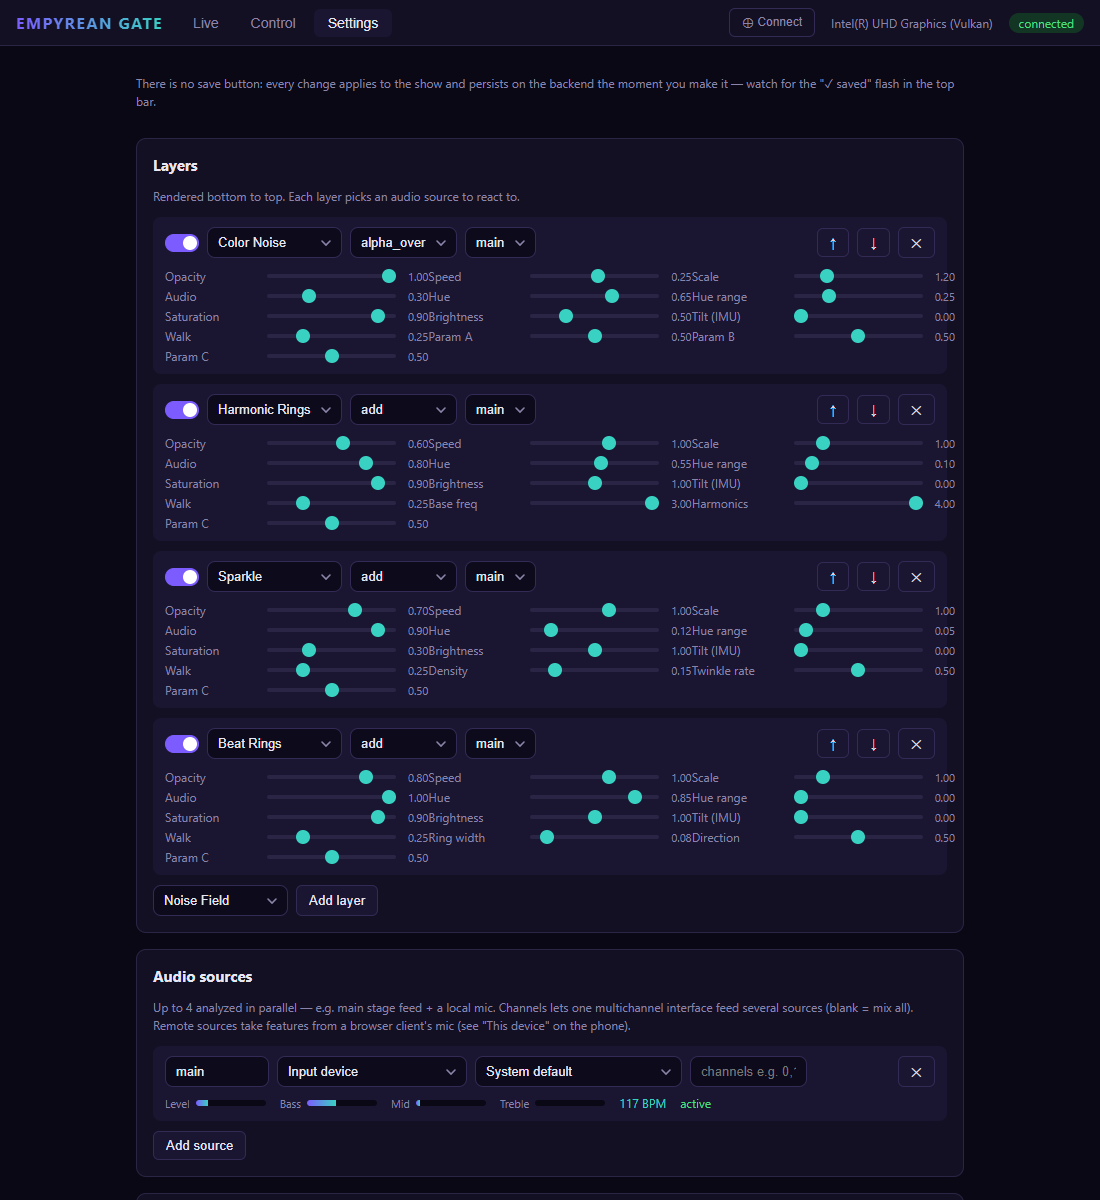
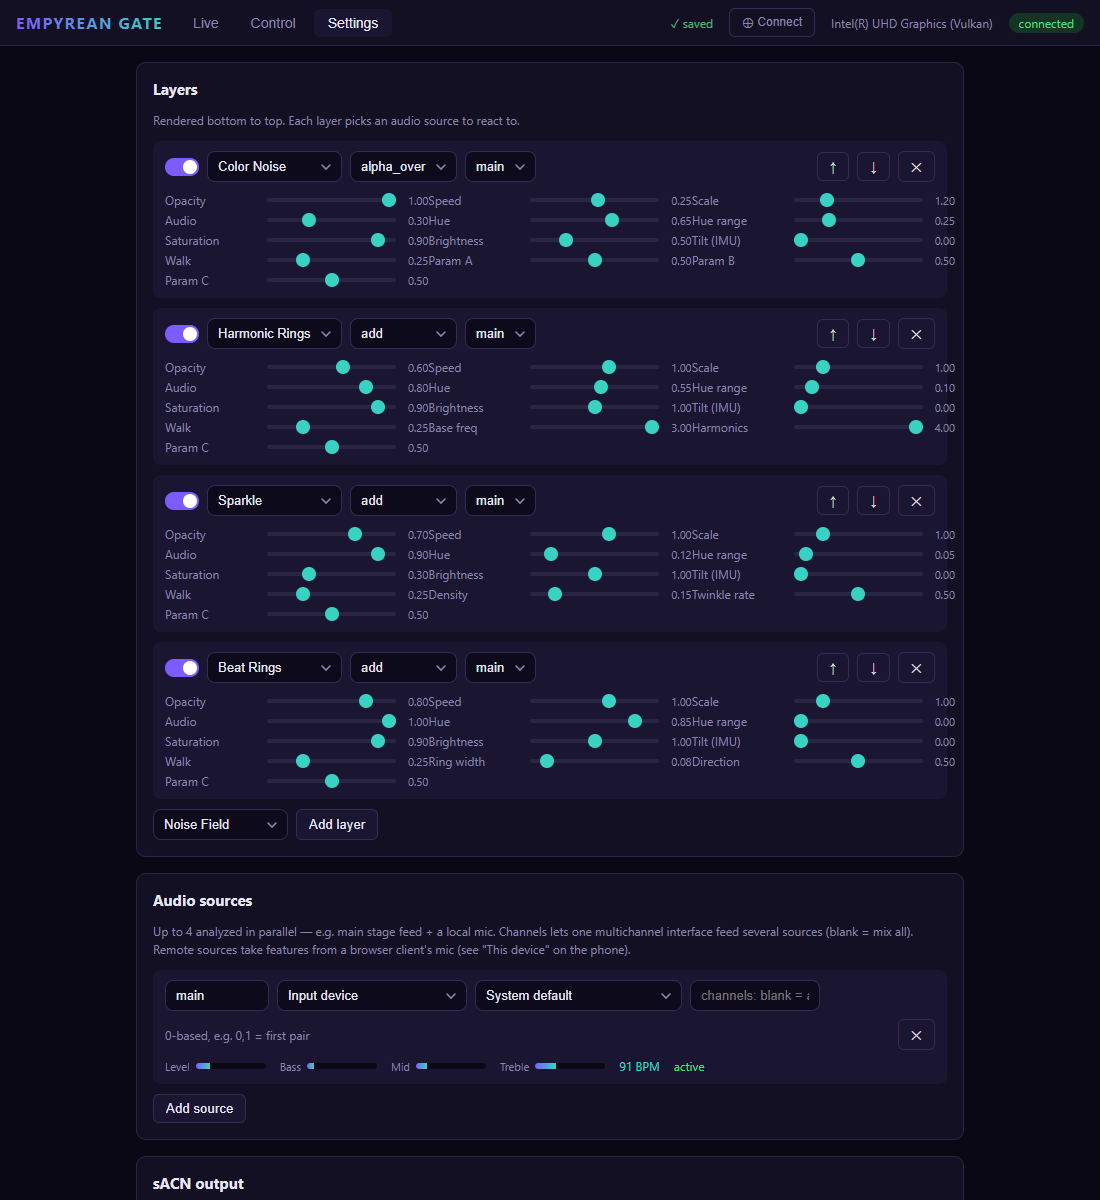
Audio channel resilience, CSS-driven Live layouts, fresh screenshots
- Audio: an out-of-range channel selection (easy to hit - the boxes are
  0-based) now falls back to all channels with a log warning instead of
  refusing the source with a sticky "no valid channels selected" error.
  The channels box documents blank-is-all and 0-based inline.
- Live layout modes are now pure CSS aspect-ratio media queries instead
  of a ResizeObserver: correct at first paint, and immune to the
  render-starved contexts (hidden tabs, one-shot headless captures) where
  the observer never fired - which is exactly why the README portrait
  screenshot showed the wide layout. Media queries placed after the base
  rules; the first attempt lost the cascade to later equal-specificity
  rules. Tall mode wraps its toolbar and sizes the canvas height-driven.
- Removed the settings no-save-button banner text.
- README screenshots recaptured: all three Live modes with the new tool
  row, verified visually.

diff --git a/src/styles.css b/src/styles.css
@@ -113,6 +113,10 @@ main {
 
 /* ---- Live (merged view + draw, aspect-adaptive) ---- */
 
+/* Layout is chosen by VIEWPORT aspect ratio, in pure CSS: wide (default) puts
+   controls in side columns; squarish floats them in the canvas corners; tall
+   stacks them above/below. No JS resize handling — correct at first paint. */
+
 .live-page {
   height: 100%;
   min-height: 0;
@@ -121,14 +125,6 @@ main {
   gap: 8px;
 }
 
-.live-page.tall {
-  flex-direction: column;
-}
-
-.live-page.square {
-  align-items: center;
-  justify-content: center;
-}
 
 .live-canvas-wrap {
   position: relative;
@@ -157,13 +153,6 @@ main {
   flex-shrink: 0;
 }
 
-.live-page.tall .live-side {
-  flex-direction: row;
-  width: auto;
-  align-items: center;
-  justify-content: center;
-  gap: 12px;
-}
 
 .cluster {
   display: flex;
@@ -183,10 +172,6 @@ main {
   gap: 6px;
 }
 
-.live-page.tall .cluster.pens {
-  flex-direction: row;
-}
-
 /* Square mode: clusters float in the canvas corners the circle never reaches. */
 .corner {
   position: absolute;
@@ -200,7 +185,7 @@ main {
 .corner.tl { top: 8px; left: 8px; }
 .corner.tr { top: 8px; right: 8px; }
 .corner.bl { bottom: 8px; left: 8px; }
-.corner.br { bottom: 8px; right: 8px; width: 170px; }
+.corner.br { bottom: 8px; right: 8px; width: 210px; }
 
 /* The empty ring center carries identity + live status. */
 .ring-center {
@@ -359,6 +344,51 @@ main {
 .swatch.active {
   border-color: #fff;
   box-shadow: 0 0 0 2px var(--accent);
+}
+
+/* ---- Live layout modes (viewport aspect ratio, pure CSS) ----
+   These come AFTER all base rules above: equal-specificity overrides win by order.
+   Wide (default): side columns. Squarish: corner clusters. Tall: top/bottom bars. */
+
+.corner {
+  display: none;
+}
+
+/* Squarish: 0.78 <= aspect <= 1.30 */
+@media (max-aspect-ratio: 13/10) and (min-aspect-ratio: 39/50) {
+  .live-side {
+    display: none;
+  }
+  .corner {
+    display: block;
+  }
+  .live-page {
+    align-items: center;
+    justify-content: center;
+  }
+}
+
+/* Tall: aspect < 0.78 */
+@media (max-aspect-ratio: 39/50) {
+  .live-page {
+    flex-direction: column;
+  }
+  .live-side {
+    flex-direction: row;
+    flex-wrap: wrap;
+    width: auto;
+    align-items: center;
+    justify-content: center;
+    gap: 8px 12px;
+  }
+  .live-side .cluster.pens {
+    grid-template-columns: repeat(4, 1fr);
+  }
+  /* Column layout: the canvas square is height-driven (aspect-ratio derives width). */
+  .gate-canvas {
+    width: auto;
+    height: min(100%, calc(100vw - 16px));
+  }
 }
 
 /* ---- Control ---- */

diff --git a/src/Live.tsx b/src/Live.tsx
@@ -38,27 +38,12 @@ function swatchColor(hue: number): string {
   return hue < 0 ? "#ffffff" : `hsl(${hue * 360}deg 90% 60%)`;
 }
 
-type Mode = "wide" | "tall" | "square";
-
 export default function Live() {
   const { client, status, beatAt } = useGate();
   const [tool, setTool] = useState<ToolKind>("tap");
   const [hue, setHue] = useState(0.5);
   const [size, setSize] = useState(0.12);
-  const [mode, setMode] = useState<Mode>("wide");
-  const pageRef = useRef<HTMLDivElement>(null);
   const beatDotRef = useRef<HTMLDivElement>(null);
-
-  useEffect(() => {
-    const el = pageRef.current;
-    if (!el) return;
-    const ro = new ResizeObserver(() => {
-      const a = el.clientWidth / Math.max(1, el.clientHeight);
-      setMode(a > 1.3 ? "wide" : a < 0.77 ? "tall" : "square");
-    });
-    ro.observe(el);
-    return () => ro.disconnect();
-  }, []);
 
   useEffect(() => {
     let raf = 0;
@@ -173,27 +158,18 @@ export default function Live() {
         )}
         {status?.sacn_enabled && <span className="live-pill">sACN LIVE</span>}
       </div>
-      {mode === "square" && (
-        <>
-          <div className="corner tl">{pens}</div>
-          <div className="corner tr">{effects}</div>
-          <div className="corner bl">{colors}</div>
-          <div className="corner br">{sizeCtl}</div>
-        </>
-      )}
+      {/* Square-ish windows: controls float in the corners the circle never
+          reaches. Visibility is pure CSS (aspect-ratio media queries), so the
+          layout is right at first paint with no resize-observer fragility. */}
+      <div className="corner tl">{pens}</div>
+      <div className="corner tr">{effects}</div>
+      <div className="corner bl">{colors}</div>
+      <div className="corner br">{sizeCtl}</div>
     </div>
   );
 
-  if (mode === "square") {
-    return (
-      <div ref={pageRef} className="live-page square">
-        {canvas}
-      </div>
-    );
-  }
-
   return (
-    <div ref={pageRef} className={`live-page ${mode}`}>
+    <div className="live-page">
       <div className="live-side a">
         {pens}
         {effects}

diff --git a/src/Settings.tsx b/src/Settings.tsx
@@ -21,10 +21,6 @@ export default function Settings() {
   if (!config) return <p className="hint">Waiting for backend…</p>;
   return (
     <div className="settings-page">
-      <p className="hint">
-        There is no save button: every change applies to the show and persists on the
-        backend the moment you make it — watch for the "✓ saved" flash in the top bar.
-      </p>
       <LayersPanel config={config} />
       <AudioPanel config={config} />
       <OutputPanel config={config} />
@@ -349,9 +345,9 @@ function AudioPanel({ config }: { config: AppConfig }) {
                     )}
                   </select>
                   <input
-                    placeholder="channels e.g. 0,1"
+                    placeholder="channels: blank = all"
                     defaultValue={s.channels.join(",")}
-                    style={{ width: "9em" }}
+                    style={{ width: "10em" }}
                     onBlur={(e) => {
                       const channels = e.target.value
                         .split(",")
@@ -360,6 +356,7 @@ function AudioPanel({ config }: { config: AppConfig }) {
                       updateSource(i, { channels });
                     }}
                   />
+                  <span className="hint">0-based, e.g. 0,1 = first pair</span>
                 </>
               )}
               {s.kind === "remote" && (

diff --git a/src-tauri/src/audio/mod.rs b/src-tauri/src/audio/mod.rs
@@ -190,7 +190,7 @@ fn build_device_stream(
     };
     let sample_rate = config.sample_rate() as f32;
     let n_channels = config.channels() as usize;
-    let selected: Vec<usize> = if channels.is_empty() {
+    let mut selected: Vec<usize> = if channels.is_empty() {
         (0..n_channels).collect()
     } else {
         channels
@@ -199,7 +199,16 @@ fn build_device_stream(
             .filter(|c| *c < n_channels)
             .collect()
     };
-    anyhow::ensure!(!selected.is_empty(), "no valid channels selected");
+    // Recover, don't refuse: a bad channel list (e.g. 1-based entry, or numbers
+    // beyond the device) falls back to all channels with a warning — a show tool
+    // must keep making sound-reactive light, not die on a typo.
+    if selected.is_empty() {
+        log::warn!(
+            "audio source {index}: channel selection {channels:?} matches none of the \
+             device's {n_channels} channels (they are 0-based); using all channels"
+        );
+        selected = (0..n_channels).collect();
+    }
 
     let mut extractor = FeatureExtractor::new(sample_rate);
     let mut tracker = BeatTracker::new(HOP_SIZE as f32 / sample_rate);
